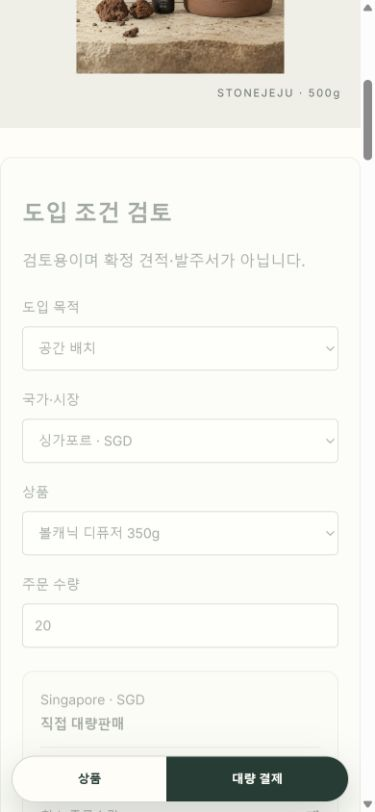
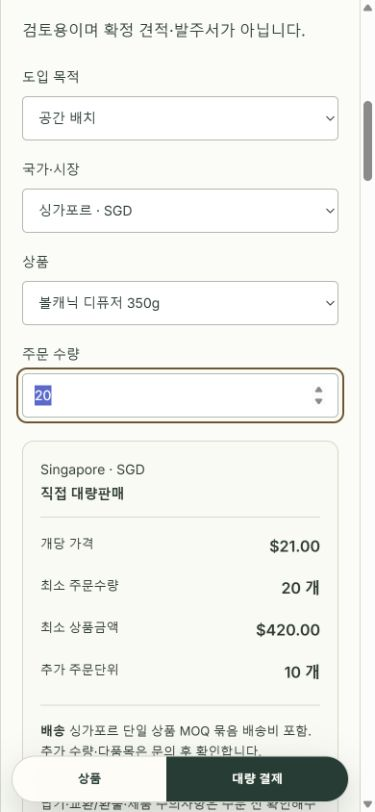
Record read-only preview verification and redesign handoff captures

diff --git a/docs/final-sales-tools-report.md b/docs/final-sales-tools-report.md
@@ -27,3 +27,58 @@
 
 ## 운영 반영 전
 Preview는 쓰기403·PayPal 비활성 상태에서만 확인. Production은 새 승인 후 기존 Git 배포 경로 사용, Preview환경 promote 금지. DB/마이그레이션은 이번 변경과 무관하며 B 후속으로 별도 진행. 실제 PDF 출력·원어민 감수·미확인 판매처 검토는 남아 있음.
+
+## Preview 최종 확인
+- 구현 커밋: 2ccc6e4 (codex/final-sales-tools, main push 없음)
+- URL: https://hondit-shop-7qvvx1slq-hondit.vercel.app
+- ID: dpl_fgTEpJKV2YpRJpnGf9Lyz2n246FV / Preview Ready
+- 기존 Vercel 인증 보호 유지. Production promote 미수행.
+- GET PayPal config: checkoutEnabled=false, client ID 비어 있음. 빈 create-order POST는403으로 외부 접근 전 차단.
+- 원격 지도8카드/5마커, 비교표 공식 용기/치수/표시 용량, 도입 단순 차액135 확인.
+- Preview /partners/demo: 명시적 데모 표시, 페이지 전체 bulk 링크0, PayPal 문구 없음, 모바일 구매CTA 없음. 승인된 파트너 새로 등록하지 않음.
+- /guide/diffuser-500g 일본어 사용·관리·재주문 상담 연결 확인.
+- 추가 캡처: product-comparison-desktop.jpg, business-mobile.jpg, stockists-desktop.jpg, business-card-desktop.jpg.
+- docs/qa 변경과 본 결과 기록은 후속 문서 커밋이며 배포 코드 변경 없음.
+
+## 변경 파일
+- .gitignore
+- docs/claude-redesign-handoff.md
+- docs/final-sales-tools-baseline.md
+- docs/final-sales-tools-report.md
+- docs/product-source-review-2026-10-13.md
+- docs/qa/business-card-desktop.jpg
+- docs/qa/business-mobile.jpg
+- docs/qa/product-comparison-desktop.jpg
+- docs/qa/stockists-desktop.jpg
+- docs/sources/image-urls.json
+- docs/sources/offlineshop-extraction.md
+- docs/sources/stockist-verification.json
+- package.json
+- shared/sales-tools-copy.d.ts
+- shared/sales-tools-copy.js
+- shared/sales-tools.d.ts
+- shared/sales-tools.js
+- src/App.tsx
+- src/components/BusinessPlanner.tsx
+- src/components/ConsultationPanel.tsx
+- src/components/ProductFactsDisplay.tsx
+- src/components/QuantityReview.tsx
+- src/components/v23/SiteChrome.tsx
+- src/data/jejuStockists.json
+- src/data/productFacts.ts
+- src/data/v23SiteData.ts
+- src/lib/market.tsx
+- src/main.tsx
+- src/pages/BulkProductPage.tsx
+- src/pages/HomePage.tsx
+- src/pages/JejuPage.tsx
+- src/pages/JejuStoresPage.tsx
+- src/pages/OrderCompletePage.tsx
+- src/pages/PartnerGuidePage.tsx
+- src/pages/PartnersPage.tsx
+- src/pages/ProductDetailPage.tsx
+- src/pages/ProductGuidePage.tsx
+- src/styles/sales-tools.css
+- tests/sales-tools.test.mjs
+- tests/site-localization.test.mjs
+- vercel.json

diff --git a/docs/claude-redesign-handoff.md b/docs/claude-redesign-handoff.md
@@ -86,3 +86,7 @@ npm run preview -- --host 127.0.0.1 --port 4182
 
 ## 미확인 사항
 공개 제외8곳의 현재 운영/정확한 위치, 공개 목록 중3곳의 좌표, 개별 판매처 현재 SKU/재고, 공급 수량/출고 일정, 운송·규제 승인, 실제 이메일 수신·PayPal 완료·인증 관리자 전체, 원어민 번역 감수 및 실제 PDF 출력. 출처보고서에서 상세 원인 확인.
+
+## 검토용 Preview
+https://hondit-shop-7qvvx1slq-hondit.vercel.app
+ID dpl_fgTEpJKV2YpRJpnGf9Lyz2n246FV, 구현커밋2ccc6e4. Preview 인증 보호·결제 비활성·쓰기403 확인. Production 환경은 이번에 변경하지 않음.
